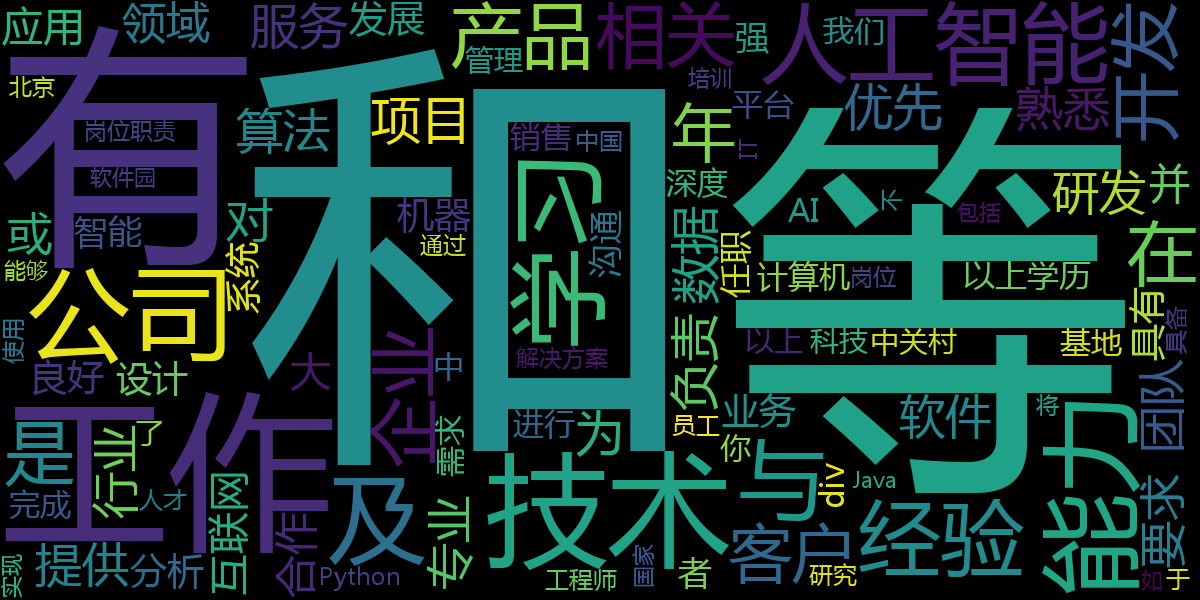
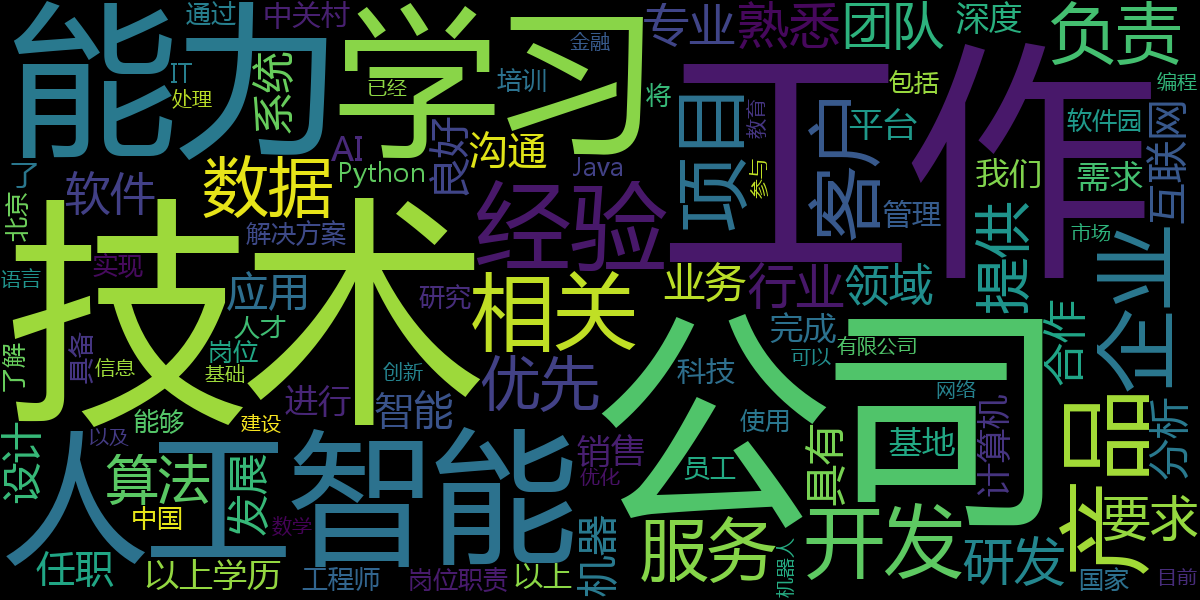
fix a wrong image

diff --git a/README.md b/README.md
@@ -78,6 +78,7 @@
 > 爬虫只是为了获得数据，重要的还是如何做数据分析
 
 #### 生成词云
-效果图  
+* 连接数据库，取出其中的10000条数据，使用结巴分词，将中文进行拆分，手动去掉没有意义的词
+* 效果图，待完善 
 
 ![](https://github.com/wqh0109663/JobSpiders/raw/master/data/image.png)
